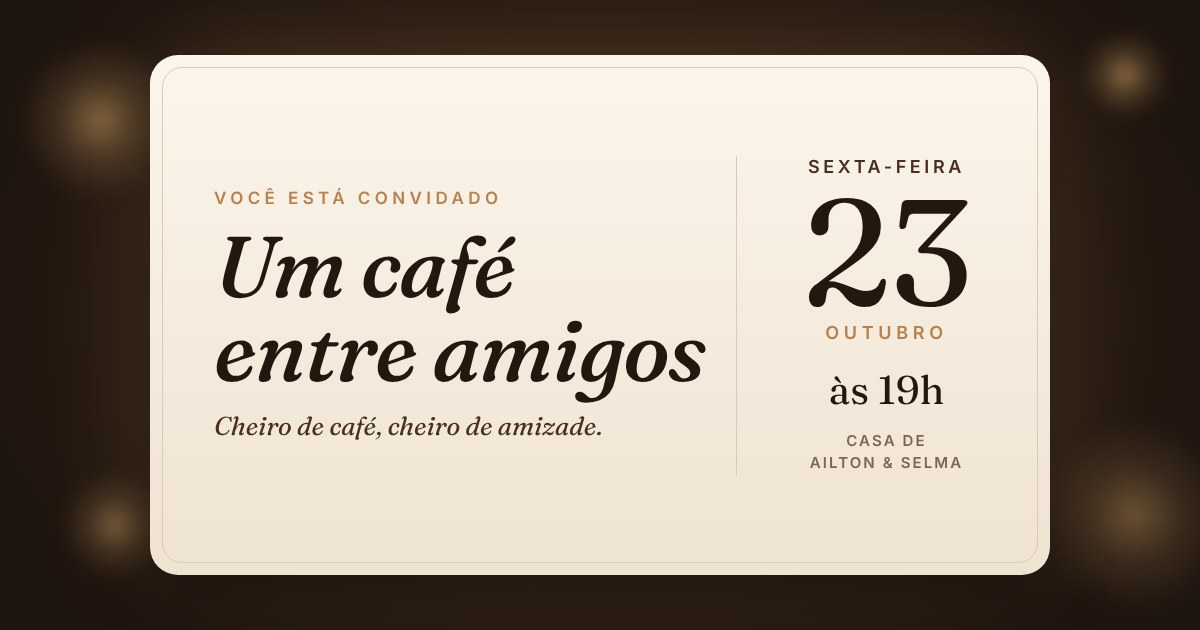
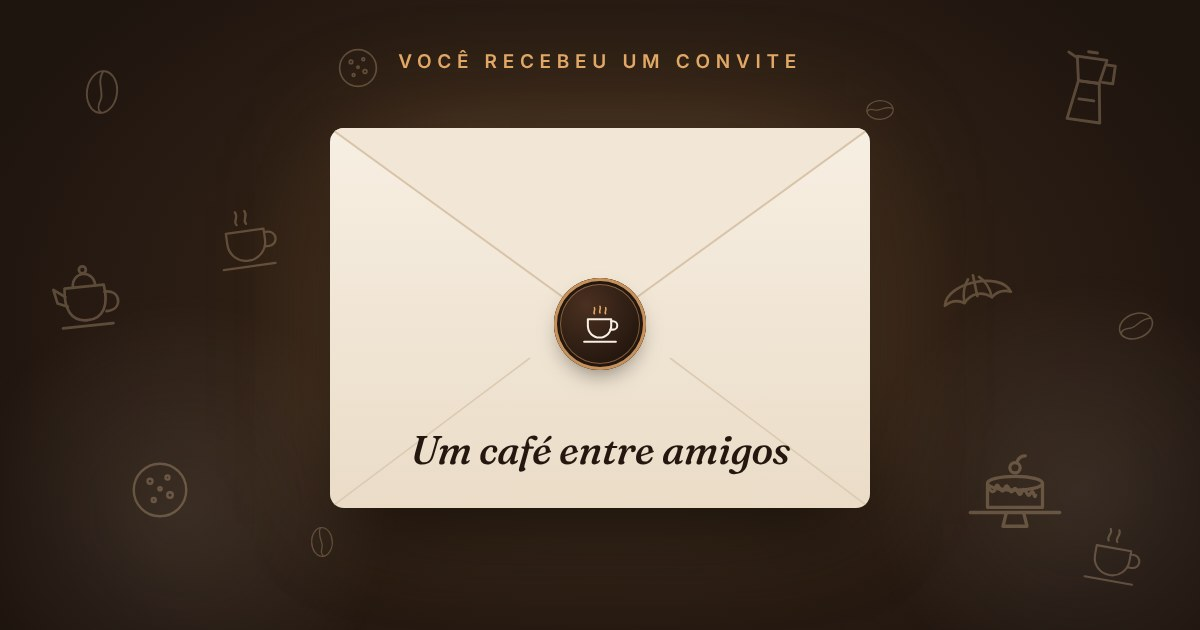
Add files via upload

diff --git a/index.html b/index.html
@@ -3,19 +3,19 @@
 <head>
 <meta charset="utf-8">
 <meta name="viewport" content="width=device-width, initial-scale=1, viewport-fit=cover, interactive-widget=resizes-content">
-<title>Um café entre amigos · 23/10 às 19h</title>
-<meta name="description" content="Sexta, 23 de outubro, às 19h, na casa de Ailton & Selma. Confirme sua presença.">
+<title>Um café entre amigos ☕</title>
+<meta name="description" content="Você recebeu um convite especial. Toque para abrir.">
 <meta name="theme-color" content="#1F150F">
 
 <!-- Miniatura no WhatsApp. Endereço publicado no GitHub Pages. -->
 <meta property="og:type" content="website">
 <meta property="og:url" content="https://realsalemthecat.github.io/cafeaes/">
 <meta property="og:title" content="Um café entre amigos ☕">
-<meta property="og:description" content="Sexta, 23/10, às 19h · Casa de Ailton & Selma. Toque para ver o convite e confirmar.">
-<meta property="og:image" content="https://realsalemthecat.github.io/cafeaes/capa.jpg">
+<meta property="og:description" content="Você recebeu um convite especial. Toque para abrir.">
+<meta property="og:image" content="https://realsalemthecat.github.io/cafeaes/capa.jpg?v=2">
 <meta property="og:image:width" content="1200">
 <meta property="og:image:height" content="630">
-<meta property="og:image:alt" content="Convite: Um café entre amigos — sexta, 23 de outubro, às 19h">
+<meta property="og:image:alt" content="Envelope de convite: Um café entre amigos">
 <meta property="og:locale" content="pt_BR">
 <meta name="twitter:card" content="summary_large_image">
 
@@ -87,15 +87,22 @@ body{
 
 main{
   position:relative;z-index:1;max-width:440px;margin:0 auto;
-  min-height:100vh;min-height:100svh;
-  display:flex;flex-direction:column;justify-content:center;
-  padding:max(18px, env(safe-area-inset-top)) 16px calc(28px + env(safe-area-inset-bottom));
+  padding:0 16px calc(28px + env(safe-area-inset-bottom));
 }
+/* o cartão fica centralizado na área visível; o rodapé vem logo abaixo */
+.stage{
+  min-height:100vh;min-height:var(--app-h,100svh);
+  display:flex;flex-direction:column;justify-content:center;
+  padding:max(16px, env(safe-area-inset-top)) 0 16px;
+}
+/* telas altas: cartão e rodapé cabem juntos, então o conjunto é que fica centralizado */
+main.juntos{min-height:var(--app-h,100svh);display:flex;flex-direction:column;justify-content:center;padding-top:16px;padding-bottom:16px}
+main.juntos .stage{min-height:0;padding:0}
 
 /* ---------- o cartão-convite ---------- */
 .invite{
   position:relative;background:var(--paper);border-radius:26px;
-  padding:clamp(28px,4.6svh,50px) 24px clamp(24px,3.6svh,42px);text-align:center;
+  padding:clamp(28px,calc(var(--vh,1svh)*4.6),50px) 24px clamp(24px,calc(var(--vh,1svh)*3.6),42px);text-align:center;
   background-image:
     radial-gradient(120% 60% at 50% 0%, #FBF5EC 0%, transparent 70%),
     linear-gradient(var(--paper), var(--paper-2));
@@ -119,7 +126,7 @@ main{
 .invite > *:nth-child(7){animation-delay:.72s}
 @keyframes rise{from{opacity:0;transform:translateY(10px)}to{opacity:1;transform:none}}
 
-.cup{width:54px;height:54px;color:var(--coffee);display:block;margin:0 auto clamp(10px,1.8svh,20px)}
+.cup{width:54px;height:54px;color:var(--coffee);display:block;margin:0 auto clamp(10px,calc(var(--vh,1svh)*1.8),20px)}
 .steam path{fill:none;stroke:var(--gold);stroke-width:2.4;stroke-linecap:round;opacity:0;animation:steam 3.4s var(--ease) infinite}
 .steam path:nth-child(2){animation-delay:1.1s}
 .steam path:nth-child(3){animation-delay:2.2s}
@@ -128,14 +135,14 @@ main{
 .eyebrow{font-size:11.5px;font-weight:600;letter-spacing:.24em;text-transform:uppercase;color:var(--gold)}
 h1{
   font-family:var(--serif);font-weight:500;font-style:italic;color:var(--ink);
-  font-size:clamp(38px,11.2vw,48px);line-height:1;letter-spacing:-.015em;margin:clamp(10px,1.6svh,18px) 0;
+  font-size:clamp(38px,11.2vw,48px);line-height:1;letter-spacing:-.015em;margin:clamp(10px,calc(var(--vh,1svh)*1.6),18px) 0;
 }
 .phrase{font-family:var(--serif);font-size:17px;color:var(--coffee);font-style:italic}
 
 /* bloco de data — a informação principal */
 .when{
   display:grid;grid-template-columns:1fr auto 1fr;align-items:center;
-  margin:clamp(20px,3.6svh,40px) 0 clamp(16px,3svh,34px);padding:clamp(14px,2.4svh,26px) 0;border-top:1px solid var(--line);border-bottom:1px solid var(--line);
+  margin:clamp(20px,calc(var(--vh,1svh)*3.6),40px) 0 clamp(16px,calc(var(--vh,1svh)*3),34px);padding:clamp(14px,calc(var(--vh,1svh)*2.4),26px) 0;border-top:1px solid var(--line);border-bottom:1px solid var(--line);
 }
 .when .side{font-size:13px;font-weight:600;letter-spacing:.16em;text-transform:uppercase;color:var(--coffee)}
 .when .side small{display:block;font-size:11px;font-weight:500;letter-spacing:.12em;color:var(--muted);margin-top:3px}
@@ -145,7 +152,7 @@ h1{
 }
 .when .day small{display:block;font-family:var(--sans);font-size:11px;font-weight:600;letter-spacing:.24em;text-transform:uppercase;color:var(--gold);margin-top:8px}
 
-.where{margin-bottom:clamp(20px,3.4svh,38px)}
+.where{margin-bottom:clamp(20px,calc(var(--vh,1svh)*3.4),38px)}
 .where .lbl{font-size:11px;font-weight:600;letter-spacing:.2em;text-transform:uppercase;color:var(--muted)}
 .where .place{font-family:var(--serif);font-size:23px;line-height:1.2;color:var(--ink);margin-top:4px}
 
@@ -170,7 +177,7 @@ h1{
 }
 
 /* ---------- abaixo do cartão ---------- */
-.after{text-align:center;color:var(--cream-on-dark);padding:clamp(22px,4svh,44px) 10px 0;animation:rise 1s var(--ease) .9s both}
+.after{text-align:center;color:var(--cream-on-dark);padding:clamp(22px,calc(var(--vh,1svh)*4),44px) 10px 0;animation:rise 1s var(--ease) .9s both}
 .quote{font-family:var(--serif);font-style:italic;font-size:22px;line-height:1.3;opacity:.92}
 .count{margin-top:0;font-size:13px;letter-spacing:.06em;color:rgba(243,231,214,.6)}
 .count b{color:var(--glow);font-weight:600}
@@ -307,6 +314,34 @@ input::placeholder{color:#B3A08E}
   .steam path{opacity:.7}
 }
 </style>
+<script>
+  // altura real da área visível (Chrome, Firefox e Safari tratam as barras de forma diferente)
+  (function(){
+    var r = document.documentElement;
+    function med(){
+      var h = window.visualViewport ? Math.min(window.innerHeight, visualViewport.height) : window.innerHeight;
+      r.style.setProperty("--app-h", h + "px");
+      r.style.setProperty("--vh", (h / 100) + "px");
+    }
+    function arranja(){
+      var m = document.querySelector("main"), c = document.querySelector(".invite"), a = document.querySelector(".after");
+      if (!m || !c || !a) return;
+      var h = parseFloat(r.style.getPropertyValue("--app-h")) || innerHeight;
+      m.classList.toggle("juntos", c.offsetHeight + a.offsetHeight + 40 <= h);
+    }
+    window.__arranja = arranja;
+    med();
+    window.addEventListener("resize", function(){ med(); arranja(); });
+    document.addEventListener("DOMContentLoaded", arranja);
+    window.addEventListener("load", arranja);
+    if (document.fonts) document.fonts.ready.then(arranja);
+    if (window.visualViewport) visualViewport.addEventListener("resize", function(){
+      // não recalcula enquanto o teclado está aberto
+      if (document.activeElement && document.activeElement.tagName === "INPUT") return; med(); arranja();
+    });
+    window.addEventListener("orientationchange", function(){ setTimeout(med, 300); });
+  })();
+</script>
 </head>
 <body>
 
@@ -327,6 +362,7 @@ input::placeholder{color:#B3A08E}
 </div>
 
 <main>
+  <div class="stage">
   <article class="invite" aria-label="Convite">
     <svg class="cup" viewBox="0 0 120 120" aria-hidden="true">
       <g class="steam"><path d="M46 42c-4-6 4-10 0-17"/><path d="M60 40c-4-6 4-10 0-18"/><path d="M74 42c-4-6 4-10 0-17"/></g>
@@ -365,6 +401,7 @@ input::placeholder{color:#B3A08E}
       </div>
     </div>
   </article>
+  </div>
 
   <section class="after">
     <p class="count" id="count"></p>
